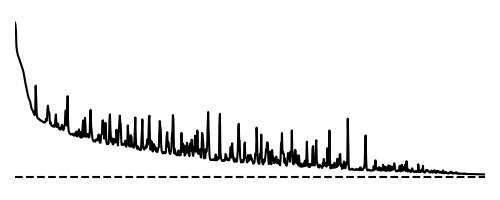
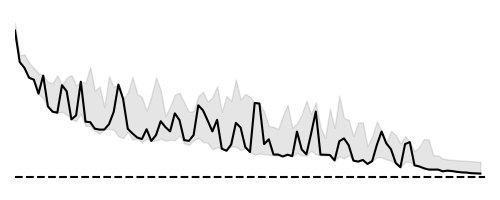
Update benchmark results.

Changed region(s): [[0.03, 0.21, 0.99, 0.9], [0.03, 0.12, 0.06, 0.15]]

diff --git a/benchmarks/html/table.html b/benchmarks/html/table.html
@@ -5,10 +5,10 @@
 <tr><th>Operator</th><th>Params</th><th>Learning Curve</th><th>loss/train</th><th>loss/test</th></tr>
 </thead>
 <tbody>
-<tr><th><a href="../api/continuity/operators/#continuity.operators.FourierNeuralOperator">FNO</a></th><td>505</td><td width="150px"><img height="60px" src="img/SineRegular_FNO.png"></td><td>1.22e-07</td><td><b>1.4e-07</b></td></tr>
-<tr><th><a href="../api/continuity/operators/#continuity.operators.DeepNeuralOperator">DNO</a></th><td>4257</td><td width="150px"><img height="60px" src="img/SineRegular_DNO.png"></td><td>8.66e-07</td><td>1.17e-06</td></tr>
-<tr><th><a href="../api/continuity/operators/#continuity.operators.DeepONet">DeepONet</a></th><td>5872</td><td width="150px"><img height="60px" src="img/SineRegular_DeepONet.png"></td><td>3.21e-06</td><td>3.14e-06</td></tr>
-<tr><th><a href="../api/continuity/operators/#continuity.operators.BelNet">BelNet</a></th><td>14056</td><td width="150px"><img height="60px" src="img/SineRegular_BelNet.png"></td><td>1.22e-05</td><td>9.91e-06</td></tr>
+<tr><th><a href="../api/continuity/operators/#continuity.operators.FourierNeuralOperator" title="">FourierNeuralOperator</a></th><td>3505</td><td width="150px"><img height="60px" src="img/SineRegular_FourierNeuralOperator.png"></td><td>1.63e-07</td><td><b>1.4e-07</b></td></tr>
+<tr><th><a href="../api/continuity/operators/#continuity.operators.DeepNeuralOperator" title="">DeepNeuralOperator</a></th><td>9537</td><td width="150px"><img height="60px" src="img/SineRegular_DeepNeuralOperator.png"></td><td>2.15e-06</td><td>2.2e-06</td></tr>
+<tr><th><a href="../api/continuity/operators/#continuity.operators.DeepONet" title="">DeepONet</a></th><td>16432</td><td width="150px"><img height="60px" src="img/SineRegular_DeepONet.png"></td><td>3.49e-06</td><td>3.74e-06</td></tr>
+<tr><th><a href="../api/continuity/operators/#continuity.operators.BelNet" title="">BelNet</a></th><td>18032</td><td width="150px"><img height="60px" src="img/SineRegular_BelNet.png"></td><td>1.3e-05</td><td>1.36e-05</td></tr>
 </tbody>
 </table>
 <h2><a href="../api/continuity/benchmarks/#continuity.benchmarks.SineUniform">SineUniform</a></h2>
@@ -17,9 +17,9 @@
 <tr><th>Operator</th><th>Params</th><th>Learning Curve</th><th>loss/train</th><th>loss/test</th></tr>
 </thead>
 <tbody>
-<tr><th><a href="../api/continuity/operators/#continuity.operators.DeepNeuralOperator">DNO</a></th><td>4257</td><td width="150px"><img height="60px" src="img/SineUniform_DNO.png"></td><td>0.000169</td><td><b>0.000333</b></td></tr>
-<tr><th><a href="../api/continuity/operators/#continuity.operators.BelNet">BelNet</a></th><td>14056</td><td width="150px"><img height="60px" src="img/SineUniform_BelNet.png"></td><td>2.78e-05</td><td>0.000425</td></tr>
-<tr><th><a href="../api/continuity/operators/#continuity.operators.DeepONet">DeepONet</a></th><td>5872</td><td width="150px"><img height="60px" src="img/SineUniform_DeepONet.png"></td><td>0.00214</td><td>0.00642</td></tr>
-<tr><th><a href="../api/continuity/operators/#continuity.operators.FourierNeuralOperator">FNO</a></th><td>505</td><td width="150px"><img height="60px" src="img/SineUniform_FNO.png"></td><td>0.191</td><td>0.238</td></tr>
+<tr><th><a href="../api/continuity/operators/#continuity.operators.BelNet" title="">BelNet</a></th><td>18032</td><td width="150px"><img height="60px" src="img/SineUniform_BelNet.png"></td><td>0.000188</td><td><b>0.000403</b></td></tr>
+<tr><th><a href="../api/continuity/operators/#continuity.operators.DeepNeuralOperator" title="">DeepNeuralOperator</a></th><td>9537</td><td width="150px"><img height="60px" src="img/SineUniform_DeepNeuralOperator.png"></td><td>0.000402</td><td>0.000579</td></tr>
+<tr><th><a href="../api/continuity/operators/#continuity.operators.DeepONet" title="">DeepONet</a></th><td>16432</td><td width="150px"><img height="60px" src="img/SineUniform_DeepONet.png"></td><td>0.0034</td><td>0.00504</td></tr>
+<tr><th><a href="../api/continuity/operators/#continuity.operators.FourierNeuralOperator" title="">FourierNeuralOperator</a></th><td>3505</td><td width="150px"><img height="60px" src="img/SineUniform_FourierNeuralOperator.png"></td><td>0.176</td><td>0.213</td></tr>
 </tbody>
 </table>

diff --git a/src/continuity/benchmarks/run/table.py b/src/continuity/benchmarks/run/table.py
@@ -1,4 +1,5 @@
 import mlflow
+import numpy as np
 import pandas as pd
 import matplotlib.pyplot as plt
 
@@ -44,16 +45,8 @@ class BenchmarkTable:
         benchmarks = df["Benchmark"].unique()
 
         for bm in benchmarks:
-            processed[bm] = {}
-
             mask = df["Benchmark"] == bm
-            df_bm = df.loc[mask]
-
-            # Find the best run w.r.t. test loss
-            groups = df_bm.groupby(["Operator"])
-            idx = groups["loss/test"].transform(min) == df_bm["loss/test"]
-
-            processed[bm] = df_bm[idx]
+            processed[bm] = df.loc[mask]
 
         return processed
 
@@ -64,11 +57,18 @@ class BenchmarkTable:
         fig, ax = plt.subplots(figsize=(5, 2))
         filename = f"img/{bm}_{op}.png"
 
-        max_epochs = int(operator_data["max_epochs"])
+        max_epochs = int(operator_data["max_epochs"].iloc[0])
         ax.hlines(1e-5, 0, max_epochs, "black", "--")
 
-        train_history = operator_data["train_history"].values[0]
-        ax.plot(range(len(train_history)), train_history, "k-")
+        train_history = operator_data["train_history"].values
+        x = range(len(train_history[0]))
+        y = train_history[0]
+        ax.plot(x, y, "k-")
+        all = np.array([x for x in train_history if len(x) == max_epochs])
+        x = range(max_epochs)
+        lower = np.min(all, axis=0)
+        upper = np.max(all, axis=0)
+        ax.fill_between(x, lower, upper, color="black", alpha=0.1)
 
         ax.axis("off")
         plt.xlim(0, max_epochs)
@@ -102,10 +102,19 @@ class BenchmarkTable:
             # Sort by test loss
             benchmark_data = benchmark_data.sort_values("loss/test")
 
-            for i, op in enumerate(benchmark_data["Operator"]):
-                operator_data = benchmark_data[benchmark_data["Operator"] == op]
+            visited = set()
 
-                params_dict = operator_data["params"][0]
+            for i, op in enumerate(benchmark_data["Operator"]):
+                if op in visited:
+                    continue
+                else:
+                    visited.add(op)
+
+                # Show only the best run for each operator
+                sorted_data = benchmark_data[benchmark_data["Operator"] == op]
+                operator_data = sorted_data.iloc[0]
+
+                params_dict = operator_data["params"]
                 exclude_params = ["max_epochs", "seed", "lr", "tol", "batch_size"]
                 params_dict = {
                     k: v for k, v in params_dict.items() if k not in exclude_params
@@ -119,11 +128,11 @@ class BenchmarkTable:
                 num_weights = operator_data["num_params"]
                 table += f"<td>{int(num_weights)}</td>"
 
-                loss_plot = self.generate_loss_plot(operator_data)
+                loss_plot = self.generate_loss_plot(sorted_data)
                 table += f'<td width="150px"><img height="60px" src="{loss_plot}"></td>'
 
                 for key in self.keys:
-                    v = operator_data[key].values[0]
+                    v = operator_data[key]
                     if key in ["epoch"]:
                         table += f"<td>{int(v)}</td>"
                     elif key in ["loss/test"] and i == 0:
